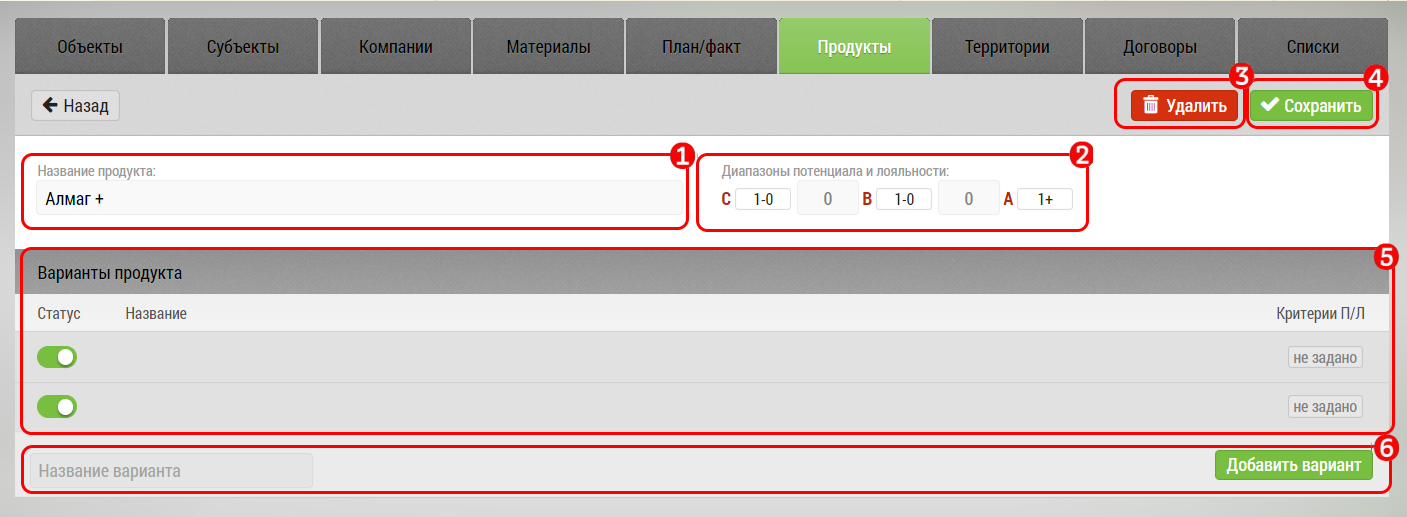
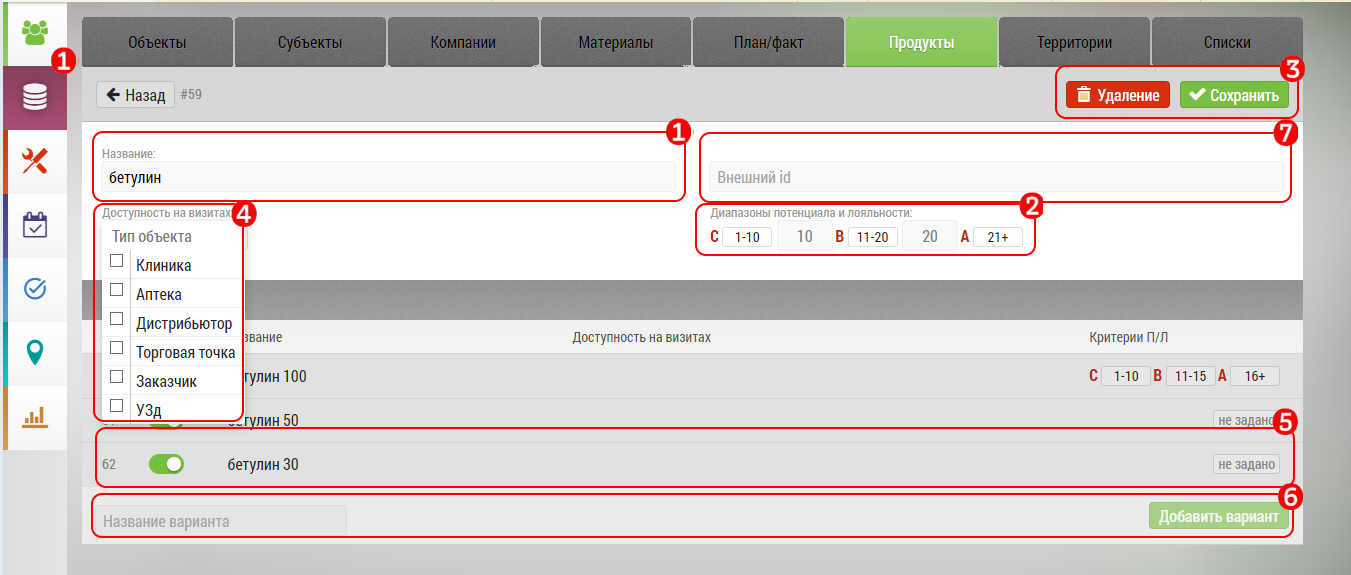
[fix] Правка разделов, добавление видео

diff --git a/src/guide/map-users.md b/src/guide/map-users.md
@@ -11,15 +11,17 @@
 - выбрать дату `1`
 - выбрать сотрудника `2`
 
-На карте будут отрисованы объекты и геометки пользователя (маленькие красные точки)
+На карте будут отрисованы объекты и геометки пользователя (маленькие красные точки и линии)
 
-`3` Геоверифицированные точки визитов отображаются зеленым цветом со значком внутри
+`3` Выполненый визит - внутри метки появится отметка о выполнении - белая галочка, так же визит который загеоверифицирован - отображается с фиолетовой каемкой.
 
-> Если визит не геоверифицировался, точка будет красного цвета со значком внутри
+> Визит закрытый, но не имеющий геоверификацию отобразится без фиолетого кружка.
 
-`4` Запланированные, но еще не выполненные визиты
+> Не состоявшийся (отмененный) визит будет выглядеть как метка объекта с крестиком внутри.
 
-`5` Запланированные, но незакрытые, просроченные визиты
+`4` Точка начала работы пользователя
+
+`5` Точка окончания работы пользователя
 
  > Если у сотрудника нет визитной активности  - вы не сможете выбрать его из списка сотрудников, и данные по геометкам соответственно так же не отобразятся.
 

diff --git a/src/guide/accounts-group-allowed-products.md b/src/guide/accounts-group-allowed-products.md
@@ -24,7 +24,9 @@
 
 ![](../images/сhoosing_drug_group.png)
 
- >Вы можете присваивать группе неограниченное количество продуктов, все они будут отображены в описании группы.
+ > Вы можете присваивать группе неограниченное количество продуктов, все они будут отображены в описании группы.
+
+ > При включении настройки, пользователи группы будут видеть только заданные продукты, а не все продукты из списка.
  
  ## Удаление ограничения видимости продуктов.
 

diff --git a/src/guide/database-product.md b/src/guide/database-product.md
@@ -32,13 +32,15 @@
 
 `2` Редактирование потенциала/лояльность
 
-`3` Удаление продукта
+`3` Удаление продукта Кнопка "Сохранить"
 
-`4` Кнопка "Сохранить"
+`4` Ограничить доступность продукта на типах визита
 
 `5` Вариации продукта
 
 `6` Добавить вариацию продукта
+
+`7` Присвоить внешний ID
 
 [Посмотреть видео "Добавление продуктов" ](https://storage.yandexcloud.net/support-files/video/database-product.mp4)
  

diff --git a/src/guide/common-start.md b/src/guide/common-start.md
@@ -45,3 +45,5 @@ title: Авторизация и первый вход
 Нужно разрешить программе доступ к данным о местоположении.
 
 Вне зависимости от ответа разрешение можно изменить или отменить в любой момент.
+
+Посмотреть видео ["Авторизация и первый вход"](https://storage.yandexcloud.net/support-files/video/common-start.mp4)

diff --git a/src/guide/map-change-object-latlng.md b/src/guide/map-change-object-latlng.md
@@ -14,3 +14,5 @@
 Для изменения положения объекта необходимо нажать на карте в то место куда будет перемещен маркер данного объекта.
 
 После этого нужно нажать на кнопку "Сохранить".
+
+Посмотреть видео [Изменение координат объекта](https://storage.yandexcloud.net/support-files/video/map-change-object-latlng.mp4)

diff --git a/src/guide/copy-planning-full-plan.md b/src/guide/copy-planning-full-plan.md
@@ -31,3 +31,5 @@
  3. Вы можете удалить шаблон, если он Вам больше не нужен
 
  В дальнейшем Вы можете выбирать нужный шаблон и копировать его в любой день или неделю
+
+  [Посмотреть видео "Копирование шаблона визитов" ](https://storage.yandexcloud.net/support-files/video/copy-planning-full-plan.mp4)
